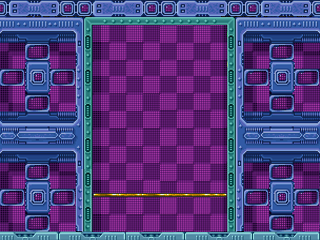
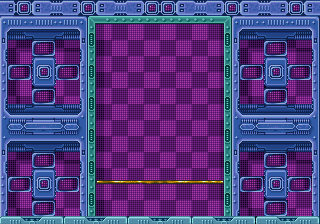
Well done the sprites, random balls and fix bugs

diff --git a/Puzzle Bobble/ModuleSceneLevel.cpp b/Puzzle Bobble/ModuleSceneLevel.cpp
@@ -23,9 +23,8 @@ ModuleSceneLevel::ModuleSceneLevel()
 	// Pipe
 
 	pipe.PushBack({338,1087,13,11});
-
-	pipe2.PushBack({ 338, 1087, 13, 11 });
-	
+	pipe.PushBack({ 354, 1081, 13, 18 });
+	pipe.speed = 0.0f;
 	// Background / sky
 	background.x = 0;
 	background.y = 0;
@@ -47,8 +46,19 @@ ModuleSceneLevel::ModuleSceneLevel()
 	
 	bub.speed = 0.3f;
 
-	//launcher animation
+	//launcher 
+/*	launcher2.x = 50;
+	launcher2.y = 1020;
+	launcher2.w = 56;
+	launcher2.h=40 ;
+	*/
+	//Bag
+	bag.x = 358;
+	bag.y = 833;
+	bag.w = 56;
+	bag.h = 24;
 
+	//launcher animation
 	launcher.PushBack({ 50, 1020, 56, 40 });
 	launcher.PushBack({ 50, 1077, 56, 40 });
 	launcher.PushBack({ 50, 1131, 56, 40 });
@@ -62,7 +72,7 @@ ModuleSceneLevel::ModuleSceneLevel()
 	launcher.PushBack({ 248, 1077, 56, 40 });
 	launcher.PushBack({ 248, 1131, 56, 40 });
 
-	launcher.speed = 0.3f;
+	launcher.speed = 0.0f;
 	/*launcher.PushBack({ 50, 1020, 56, 40 });//2003
 	launcher.PushBack({ 121, 2108, 111, 80 });
 	launcher.PushBack({ 121, 2212, 111, 80 });
@@ -94,7 +104,7 @@ bool ModuleSceneLevel::Start()
 {
 	LOG("Loading lvl scene");
 	
-	graphics = App->textures->Load("Level2.png");
+	graphics = App->textures->Load("Level1.png");
 	graphics_sprite = App->textures->Load("spritespuzzle.png");
 
 	App->audio->PlayMusic("level_music.ogg", 1.0f);
@@ -117,15 +127,18 @@ bool ModuleSceneLevel::CleanUp()
 update_status ModuleSceneLevel::Update()
 {
 	
-
 	// Draw everything --------------------------------------
 	App->render->Blit(graphics, 0, 0, &background);
-	App->render->Blit(graphics_sprite, 130, 192, &(launcher.GetCurrentFrame()), 0.75f); // launcher animation
-	
-	
+
+
 	// Bub
-	App->render->Blit(graphics_sprite, 172 ,213, &(bub.GetCurrentFrame()),0.02f ); // Bub animation
-		
+	
+	
+	launcher.speed = 0.0f;
+	App->render->Blit(graphics_sprite, 130, 192, &(launcher.GetCurrentFrame()), 0.75f); // launcher 
+	pipe.speed = 0.0f;
+	App->render->Blit(graphics_sprite, 154, 215, &(pipe.GetCurrentFrame()), 0.75f);
+
 	//	App->render->Blit(graphics, 0, (int)foreground_pos, &foreground, 0.92f);
 	//	App->render->Blit(graphics, 253, (int)foreground_pos, &foreground, 0.92f);
 
@@ -148,15 +161,26 @@ update_status ModuleSceneLevel::Update()
 
 	if (App->input->keyboard[SDL_SCANCODE_A] == KEY_REPEAT)
 	{	
-		if (shoot_angle <=170)
+		if (shoot_angle <= 170){
+			launcher.speed = 0.3f;
+			App->render->Blit(graphics_sprite, 130, 192, &(launcher.GetCurrentFrame()), 0.75f); // launcher animation
 
-		shoot_angle += 1;
+			App->render->Blit(graphics_sprite, 172, 213, &(bub.GetCurrentFrame()), 0.02f); // Bub animation
+			shoot_angle += 1;
+		}
 	}
 
 	if (App->input->keyboard[SDL_SCANCODE_D] == KEY_REPEAT)
 	{	
 		if (shoot_angle >= 10)
-		shoot_angle -= 1;
+		{
+			launcher.speed = 0.3f;
+			App->render->Blit(graphics_sprite, 130, 192, &(launcher.GetCurrentFrame()), 0.75f); // launcher animation
+
+			App->render->Blit(graphics_sprite, 174, 213, &(bub.GetCurrentFrame()), 0.02f); // Bub animation
+
+			shoot_angle -= 1;
+		}
 	}
 
 	if (App->input->keyboard[SDL_SCANCODE_SPACE] == KEY_DOWN)
@@ -164,9 +188,12 @@ update_status ModuleSceneLevel::Update()
 		if (App->ball_controll->moving_ball != NULL)
 		{
 			App->ball_controll->ShootBall(shoot_angle);
-			App->render->Blit(graphics_sprite, 154, 215, &(pipe2.GetCurrentFrame()), 0.75f);
+			pipe.speed = 0.02f;
+			App->render->Blit(graphics_sprite, 154, 215, &(pipe.GetCurrentFrame()), 0.75f);
 		}
 	}
-	App->render->Blit(graphics_sprite, 154, 215, &(pipe.GetCurrentFrame()), 0.75f);
+
+	App->render->Blit(graphics_sprite, 86, 209, &bag, 0.75f); // Bag 
+
 	return UPDATE_CONTINUE;
 }

diff --git a/Puzzle Bobble/ModuleBall.cpp b/Puzzle Bobble/ModuleBall.cpp
@@ -19,11 +19,11 @@ ModuleBall::~ModuleBall()
 bool ModuleBall::Init()
 {
 	ballsprite_blue = { 12, 260, 16, 16 };
-	ballsprite_gray = { 12, 270, 16, 16 };
-	ballsprite_red = { 12, 200, 16, 16 };
-	ballsprite_yellow = { 12, 210, 16, 16 };
+	ballsprite_gray = { 12, 286, 16, 16 };
+	ballsprite_red = { 12, 312, 16, 16 };
+	ballsprite_yellow = { 12, 338, 16, 16 };
 	ballsprite_purple = { 12, 211, 16, 16 };
-	ballsprite_green = { 12, 212, 16, 16 };
+	ballsprite_green = { 318, 260, 16, 16 };
 
 
 	return true;
@@ -39,7 +39,20 @@ update_status ModuleBall::Update()
 {
 	for (unsigned int i = 0; i < array.size(); i++)
 	{
-		App->render->Blit(App->scene_level->graphics_sprite, array[i]->x - 8, array[i]->y - 8, &ballsprite_blue);
+		
+			App->render->Blit(App->scene_level->graphics_sprite, array[i]->x - 8, array[i]->y - 8, &ballsprite_blue);
+			if (moving_ball != NULL)
+			{
+				App->render->Blit(App->scene_level->graphics_sprite, moving_ball->x - 8, moving_ball->y - 8, &ballsprite_gray);
+
+				App->render->Blit(App->scene_level->graphics_sprite, moving_ball->x - 8, moving_ball->y - 8, &ballsprite_red);
+
+				App->render->Blit(App->scene_level->graphics_sprite, moving_ball->x - 8, moving_ball->y - 8, &ballsprite_green);
+
+				App->render->Blit(App->scene_level->graphics_sprite, moving_ball->x - 8, moving_ball->y - 8, &ballsprite_yellow);
+
+				App->render->Blit(App->scene_level->graphics_sprite, moving_ball->x - 8, moving_ball->y - 8, &ballsprite_purple);
+			}
 	}
 	if (moving_ball != NULL)
 	{
@@ -93,7 +106,7 @@ void ModuleBall::ShootBall(float shoot)
 
 void ModuleBall::CreateBall()
 {
-	Color type = static_cast <Color> (rand()% 3);
+	Color type = static_cast <Color> (rand()% 4);
 
 	moving_ball = new Ball(162, 208, 8, type); //look
 	

diff --git a/Puzzle Bobble/ModuleSceneLevel.h b/Puzzle Bobble/ModuleSceneLevel.h
@@ -23,6 +23,8 @@ public:
 	SDL_Texture* graphics_sprite = nullptr;
 	SDL_Texture* graphics_sprite_launcher = nullptr;
 	SDL_Texture* graphics = nullptr;
+//	SDL_Rect launcher2;
+	SDL_Rect bag;
 	SDL_Rect ballsprite_blue;
 	SDL_Rect ballsprite_red;
 	SDL_Rect ballsprite_yellow;
@@ -32,7 +34,7 @@ public:
 	SDL_Rect foreground;
 	SDL_Rect background;
 	Animation pipe;
-	Animation pipe2;
+//	Animation pipe2;
 	Animation bub;
 	Animation launcher;
 

diff --git a/Puzzle Bobble/Animation.h b/Puzzle Bobble/Animation.h
@@ -26,6 +26,7 @@ public:
 		current_frame += speed;
 		if(current_frame >= last_frame)
 			current_frame = 0;
+		//else if(current_frame ==
 
 		return frames[(int)current_frame];
 	}

diff --git a/Puzzle Bobble/Ball.h b/Puzzle Bobble/Ball.h
@@ -16,7 +16,7 @@ public:
 	float y = 0;
 	int rad = 8;
 	float angle = 0;
-	float velocity = 1;
+	float velocity = 2;
 	bool moving = false;
 	Color color;
 
